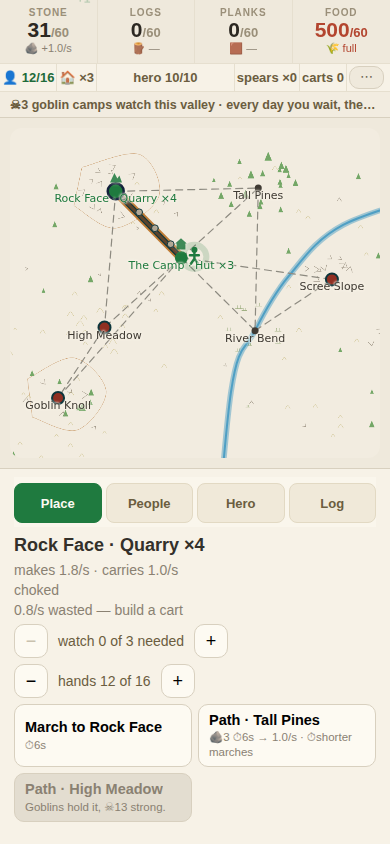
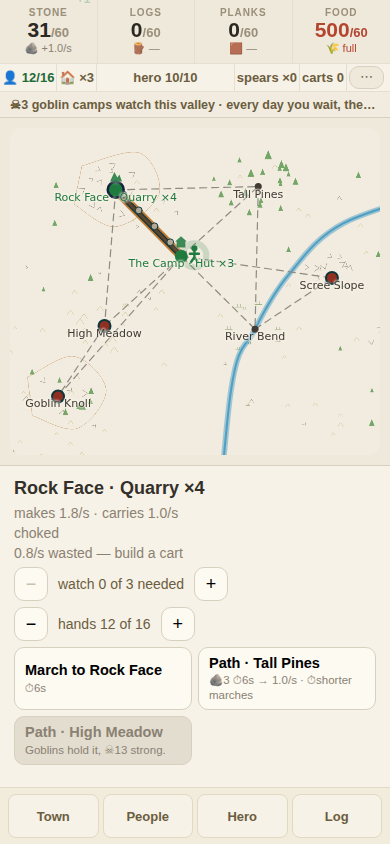
THE DOCK: a place is what the map gives you, not a tab
The owner diagnosed this one themselves, and they were right: "Why is
people menu and place menu... places are different, right? But people is
one menu, hero is one menu, log is one menu. Why is it in the same
selection? I don't understand."

It was a category error. PLACE is a view of whatever you tapped on the
map. TOWN, HERO and LOG are views of the whole camp. One tab row said
they were four peers of each other, and it made "no place selected"
impossible to express at all.

Now the place panel IS the panel, always, and the three town views are
sheets that rise over it from a dock at the bottom edge. Tap the lit
button, or tap the map, and the sheet goes away. That is Fallout
Shelter's shape, which the owner named unprompted: tap a room, get that
room's card; global views are their own thing entirely.

AND THE TOWN'S OWN DEEDS CAME OUT OF THE PLACE INSPECTOR. The storehouse,
the carts, the forge and the armoury were nested under `if (s.id === 0)`,
so everything you build for the whole camp was reachable only by tapping
one particular dot on the map. They are the same category error as the
tabs, one level down. `townDeeds()` now.

⚠ THE DOCK HIDES DURING A FIGHT. A battle you cannot see because you
left a sheet open is a lost run.

THREE BUGS, all caught by the browser probe rather than by types:
- The sheets used `.dock` for their deed grid, which has no rules in this
  component, so the buttons stacked one per row at whatever height they
[…]

diff --git a/src/ui/Camp.svelte b/src/ui/Camp.svelte
@@ -82,10 +82,25 @@
    *
    *  ⚠ A FIGHT OUTRANKS THE TABS ENTIRELY (below): a battle you cannot see
    *  because you left the tab on People is a lost run. */
-  type Tab = 'site' | 'people' | 'hero' | 'log';
-  let tab = $state<Tab>('site');
-  const TABS: Array<{ id: Tab; name: string }> = [
-    { id: 'site', name: 'Place' },
+  // ★★★ REBUILT 2026-08-11, and the owner diagnosed it themselves: *"Why is
+  // people menu and place menu… places are different, right? But people is
+  // one menu, hero is one menu, log is one menu. Why is it in the same
+  // selection? I don't understand."*
+  //
+  // They are right, and it was a category error. PLACE is a view of whatever
+  // you tapped on the map. TOWN, HERO and LOG are views of the whole camp.
+  // Putting them in one tab row said they were four peers, and made "no place
+  // selected" impossible to express.
+  //
+  // Now: the place panel is ALWAYS the panel, and the three town views are
+  // SHEETS that rise over it from a dock. Tap the dock button again, or the
+  // map, to send a sheet away. This is Fallout Shelter's shape, which the
+  // owner loves and named unprompted: tap a room, get that room's card;
+  // global views are their own thing entirely.
+  type Sheet = 'town' | 'people' | 'hero' | 'log';
+  let sheet = $state<Sheet | null>(null);
+  const SHEETS: Array<{ id: Sheet; name: string }> = [
+    { id: 'town', name: 'Town' },
     { id: 'people', name: 'People' },
     { id: 'hero', name: 'Hero' },
     { id: 'log', name: 'Log' },
@@ -574,7 +589,52 @@
     // deed a starving town was offered took food away from it: half of the
     // dead end in F0. `hire` stays in the engine and on the save so nobody's
     // existing crews vanish; nothing sells it any more. One works, one crew.
-    if (s.id === 0) {
+    // ⚠ THE TOWN'S OWN DEEDS MOVED OUT, 2026-08-11 — see `townDeeds()`.
+    // They were nested inside the PLACE inspector under `if (s.id === 0)`,
+    // so the storehouse, the carts, the forge and the armoury were only
+    // reachable by tapping one particular dot on the map. They are about the
+    // town, not about that dot. This is the same category error the owner
+    // named in the tabs: *"places are different, right? But people is one
+    // menu, hero is one menu... why is it in the same selection?"*
+    for (const n of s.near) {
+      const t = SITE.get(n);
+      if (!t) continue;
+      const key = pathKey(s.id, n);
+      const job = game.laying[key];
+      if (job) {
+        out.push({
+          label: `Laying · ${t.name}`,
+          note: `${MARK.time}${Math.ceil(job.left)}s`,
+          why: `${MARK.time}${Math.ceil(job.left)}s`,
+          go: () => {},
+        });
+        continue;
+      }
+      const gauge = game.paths[key] ?? 0;
+      if (gauge >= MAX_GAUGE) continue;
+      const w = unlayable(game, s.id, n);
+      out.push({
+        // ★ WIDENING IS GONE (2026-08-11) — `gauge >= MAX_GAUGE` above now
+        // means "already laid", so this deed only ever offers a NEW road and
+        // the gauge count has nothing left to say.
+        label: `Path · ${t.name}`,
+        note: w ?? `${amount('stone', pathCostOf(gauge))} `
+          + `${MARK.time}${PATH_SECS}s`
+          + ` → ${(CARRY * cartHaul(game)).toFixed(1)}/s · ${MARK.time}shorter marches`,
+        why: w,
+        go: () => act({ type: 'lay', a: s.id, b: n }),
+      });
+    }
+    return out;
+  })());
+
+  /** ★★★ THE TOWN'S OWN DEEDS — 2026-08-11. Everything you build for the
+   *  whole camp rather than for one place on the map: the storehouse, the
+   *  carts, the forge, the armoury, the foray. Lifted out of the place
+   *  inspector, where they were reachable only by tapping the camp's dot. */
+  const townDeeds = $derived<Deed[]>((() => {
+    const s = SITE.get(0)!;
+    const out: Deed[] = [];
       // ⚠ FEED THE HERO LIVES ON THE HERO TAB ONLY, since 2026-08-11.
       // Adding the tabs DUPLICATED this deed rather than moving it, so the
       // same button sat in two places at once depending on which tab you were
@@ -664,36 +724,6 @@
         why: short ? price(p) : null,
         go: () => act({ type: 'arm' }),
       });
-    }
-    for (const n of s.near) {
-      const t = SITE.get(n);
-      if (!t) continue;
-      const key = pathKey(s.id, n);
-      const job = game.laying[key];
-      if (job) {
-        out.push({
-          label: `Laying · ${t.name}`,
-          note: `${MARK.time}${Math.ceil(job.left)}s`,
-          why: `${MARK.time}${Math.ceil(job.left)}s`,
-          go: () => {},
-        });
-        continue;
-      }
-      const gauge = game.paths[key] ?? 0;
-      if (gauge >= MAX_GAUGE) continue;
-      const w = unlayable(game, s.id, n);
-      out.push({
-        // ★ WIDENING IS GONE (2026-08-11) — `gauge >= MAX_GAUGE` above now
-        // means "already laid", so this deed only ever offers a NEW road and
-        // the gauge count has nothing left to say.
-        label: `Path · ${t.name}`,
-        note: w ?? `${amount('stone', pathCostOf(gauge))} `
-          + `${MARK.time}${PATH_SECS}s`
-          + ` → ${(CARRY * cartHaul(game)).toFixed(1)}/s · ${MARK.time}shorter marches`,
-        why: w,
-        go: () => act({ type: 'lay', a: s.id, b: n }),
-      });
-    }
     return out;
   })());
 
@@ -840,6 +870,10 @@
   }
 
   function doTap(id: string): void {
+    // ★ TAPPING THE MAP PUTS THE SHEET AWAY (2026-08-11). The owner asked for
+    // the map back with one gesture; choosing a place IS that gesture, since
+    // the place panel is what lives under every sheet.
+    sheet = null;
     awayLine = null;
     won = null;
     const n = numOf(id);
@@ -1286,16 +1320,6 @@
             <em>home — the ground keeps its wounds</em>
           </button>
         </div>
-      {:else}
-        <!-- ★★★ THE TABS (N1). Only when there is no fight: a battle you
-             cannot see because you left the tab on People is a lost run. -->
-        <div class="tabs" role="tablist">
-          {#each TABS as t (t.id)}
-            <button class="tab" class:on={tab === t.id} role="tab"
-              aria-selected={tab === t.id}
-              onclick={() => (tab = t.id)}>{t.name}{#if t.id === 'log' && game.log.length > 0}<i>{game.log.length}</i>{/if}</button>
-          {/each}
-        </div>
       {/if}
 
       {#if !game.fight && game.draft !== null}
@@ -1352,7 +1376,28 @@
           </div>
         {/if}
       {/if}
-      {#if !game.fight && tab === 'people'}
+      {#if !game.fight && sheet === 'town'}
+        <!-- ★★★ THE TOWN SHEET, 2026-08-11 — everything you build for the
+             whole camp. These deeds used to live inside the PLACE inspector,
+             reachable only by tapping one particular dot on the map. -->
+        <h2>The town</h2>
+        <!-- ⚠ `.deeds`, not `.dock`. `.dock` has no grid rules in this
+             component, so the buttons stacked one per row at whatever height
+             they liked — the browser probe caught it as "one column of 5" and
+             "the deed floor is 0px". The Hero sheet had the same bug and got
+             away with it because it holds two buttons. -->
+        <div class="deeds">
+          {#each townDeeds as d (d.label)}
+            <!-- ⚠ `deed row`, not `deed`. The 44px thumb floor and the
+                 two-column sizing both hang off `.row`; without it the
+                 buttons were 0px-floored and full width. The probe reads the
+                 computed `min-height`, which is why it caught this. -->
+            <button class="deed row" class:cant={d.why !== null} onclick={d.go}>
+              <span class="what">{d.label}</span><em>{d.note}</em>
+            </button>
+          {/each}
+        </div>
+      {:else if !game.fight && sheet === 'people'}
         <!-- ★ PEOPLE: where everyone is, and the two jobs that are not
              "stand at a workface" — the watch, and the walk. -->
         <h2>People</h2>
@@ -1386,7 +1431,7 @@
             {#if b}<p class="note">{b.name} — {b.what}</p>{/if}
           {/each}
         {/if}
-      {:else if !game.fight && tab === 'hero'}
+      {:else if !game.fight && sheet === 'hero'}
         <h2>The hero</h2>
         <p class="note">{MARK.hero}{game.hero.hp} of {heroMax(game)}
           · {spearLabel(game.hero.spears).toLowerCase()}</p>
@@ -1413,14 +1458,14 @@
           <p class="note">{MARK.bite}{Math.floor(game.hurt)} mending — off the
             workfaces until they are well</p>
         {/if}
-        <div class="dock">
+        <div class="deeds">
           {#each heroDeeds() as d (d.label)}
-            <button class="deed" class:cant={d.why !== null} onclick={d.go}>
-              {d.label}<em>{d.note}</em>
+            <button class="deed row" class:cant={d.why !== null} onclick={d.go}>
+              <span class="what">{d.label}</span><em>{d.note}</em>
             </button>
           {/each}
         </div>
-      {:else if !game.fight && tab === 'log'}
+      {:else if !game.fight && sheet === 'log'}
         <!-- ★★★ THE EVENT LOG (N2) — *"maybe we should have an advanced log
              too"*, and the home for the messages that used to flash over the
              board: *"'Scree Slope just taken' — they should go into the
@@ -1492,6 +1537,23 @@
         <p class="note">Tap a site.</p>
       {/if}
     </section>
+    <!-- ★★★ THE DOCK, 2026-08-11. Three views of the whole town, under the
+         thumb, each one a sheet that rises OVER the place panel and goes
+         away again. The place panel is always underneath, because a place is
+         what the map gives you when you tap it, not a destination you
+         navigate to.
+         ⚠ HIDDEN DURING A FIGHT, on purpose: a battle you cannot see
+         because you left a sheet open is a lost run. -->
+    {#if !game.fight}
+      <nav class="deck">
+        {#each SHEETS as t (t.id)}
+          <button class="deckbtn" class:on={sheet === t.id}
+            aria-pressed={sheet === t.id}
+            onclick={() => (sheet = sheet === t.id ? null : t.id)}
+          >{t.name}{#if t.id === 'log' && game.log.length > 0}<i>{game.log.length}</i>{/if}</button>
+        {/each}
+      </nav>
+    {/if}
   {/if}
 </main>
 
@@ -1576,16 +1638,17 @@
 
   /* ⚠ `flee` KEEPS ITS BUTTON MID-SWING ON PURPOSE — a safety valve you
      have to wait for is not a safety valve. */
-  /* ★★★ THE TABS (N1). A row of four, thumb-sized, sticky to the top of the
-     panel so the room you are in is always visible while it scrolls. */
-  .tabs { display: grid; grid-template-columns: repeat(4, 1fr); gap: 4px;
-    margin: 0 0 8px; position: sticky; top: 0; background: #faf6ec;
-    padding: 6px 0 4px; z-index: 2; }
-  .tab { font: inherit; font-size: 13px; font-weight: 700; color: #6b5d3f;
-    background: #f0e9d9; border: 1px solid #e2d9c3; border-radius: 8px;
-    padding: 9px 4px; min-height: 40px; cursor: pointer; }
-  .tab.on { background: #1f7a3f; border-color: #1f7a3f; color: #fdfaf2; }
-  .tab i { font-style: normal; font-size: 11px; opacity: 0.75;
+  /* ★★★ THE DOCK (2026-08-11). Four buttons at the bottom edge, in the
+     thumb's arc. They toggle a SHEET over the place panel; tapping the lit
+     one puts it away. */
+  .deck { display: grid; grid-template-columns: repeat(4, 1fr); gap: 4px;
+    padding: 6px 8px calc(6px + env(safe-area-inset-bottom));
+    background: #f2ecdd; border-top: 1px solid #e2d9c3; }
+  .deckbtn { font: inherit; font-size: 13px; font-weight: 700; color: #6b5d3f;
+    background: #f7f2e7; border: 1px solid #e2d9c3; border-radius: 8px;
+    padding: 11px 4px; min-height: 44px; cursor: pointer; }
+  .deckbtn.on { background: #1f7a3f; border-color: #1f7a3f; color: #fdfaf2; }
+  .deckbtn i { font-style: normal; font-size: 11px; opacity: 0.75;
     margin-left: 4px; }
   /* ★ N5: the meeting reads as a page, not as another row of numbers. */
   .sq.levy { opacity: 0.92; }
